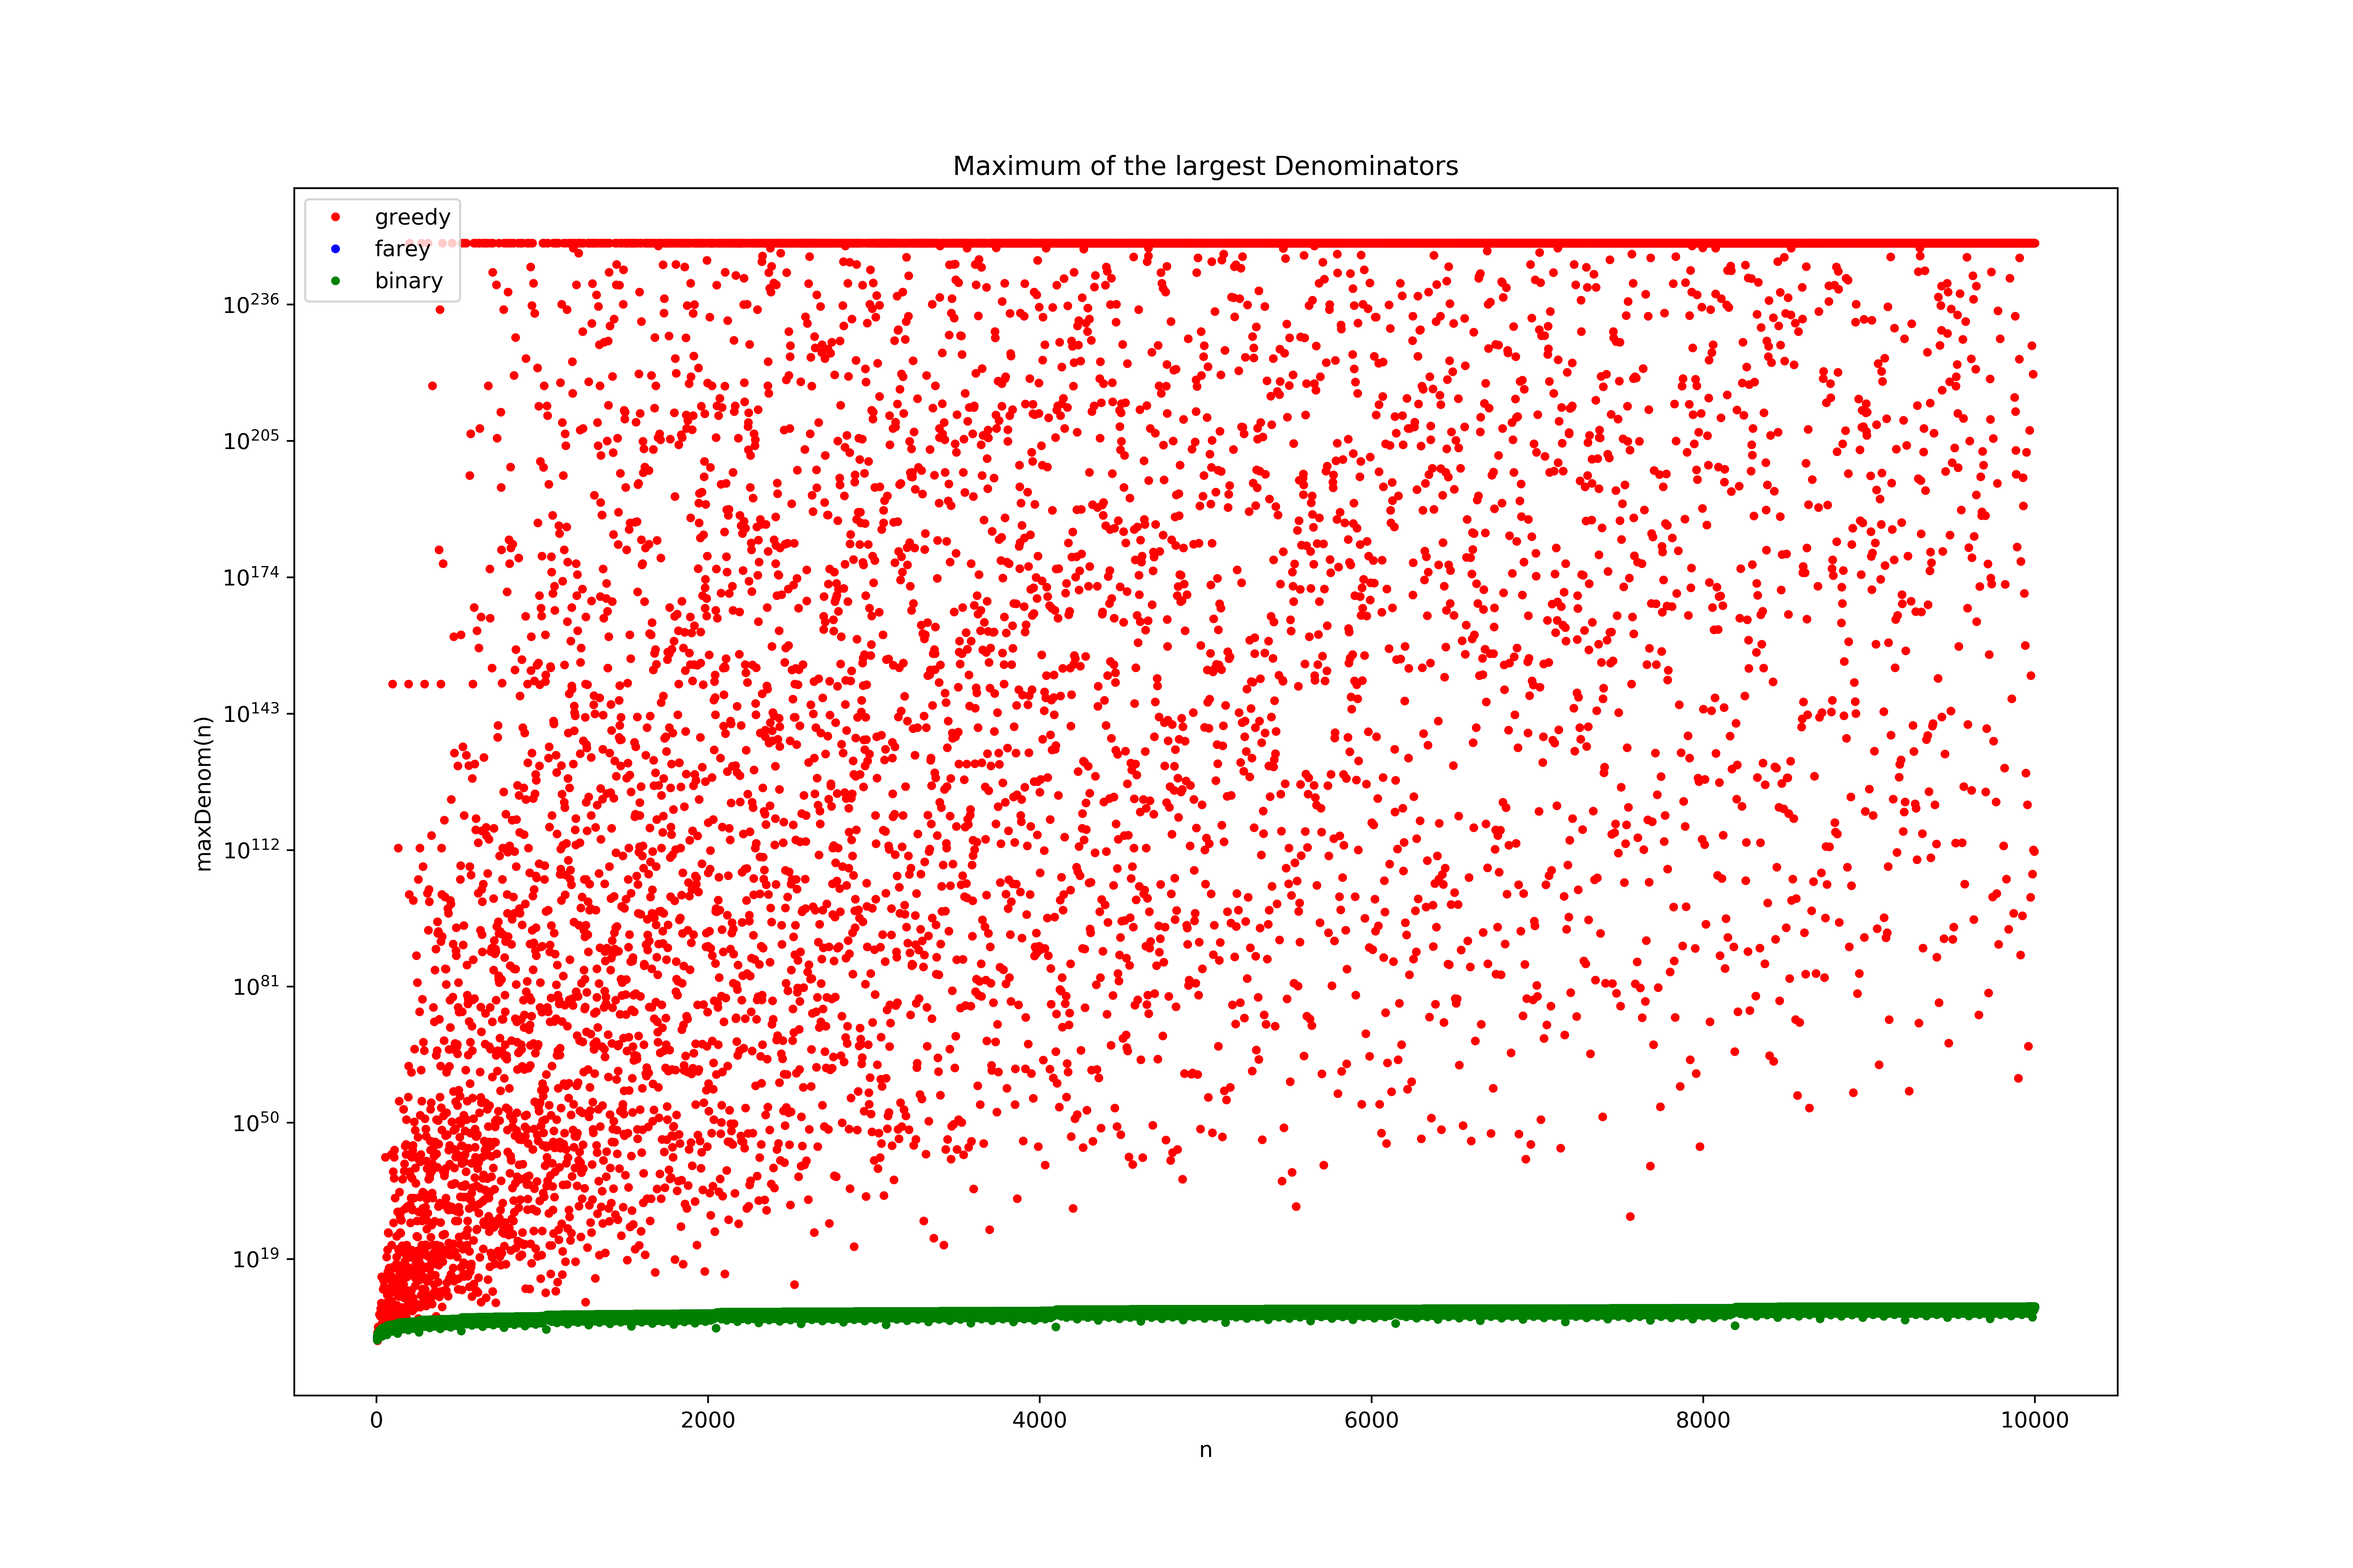
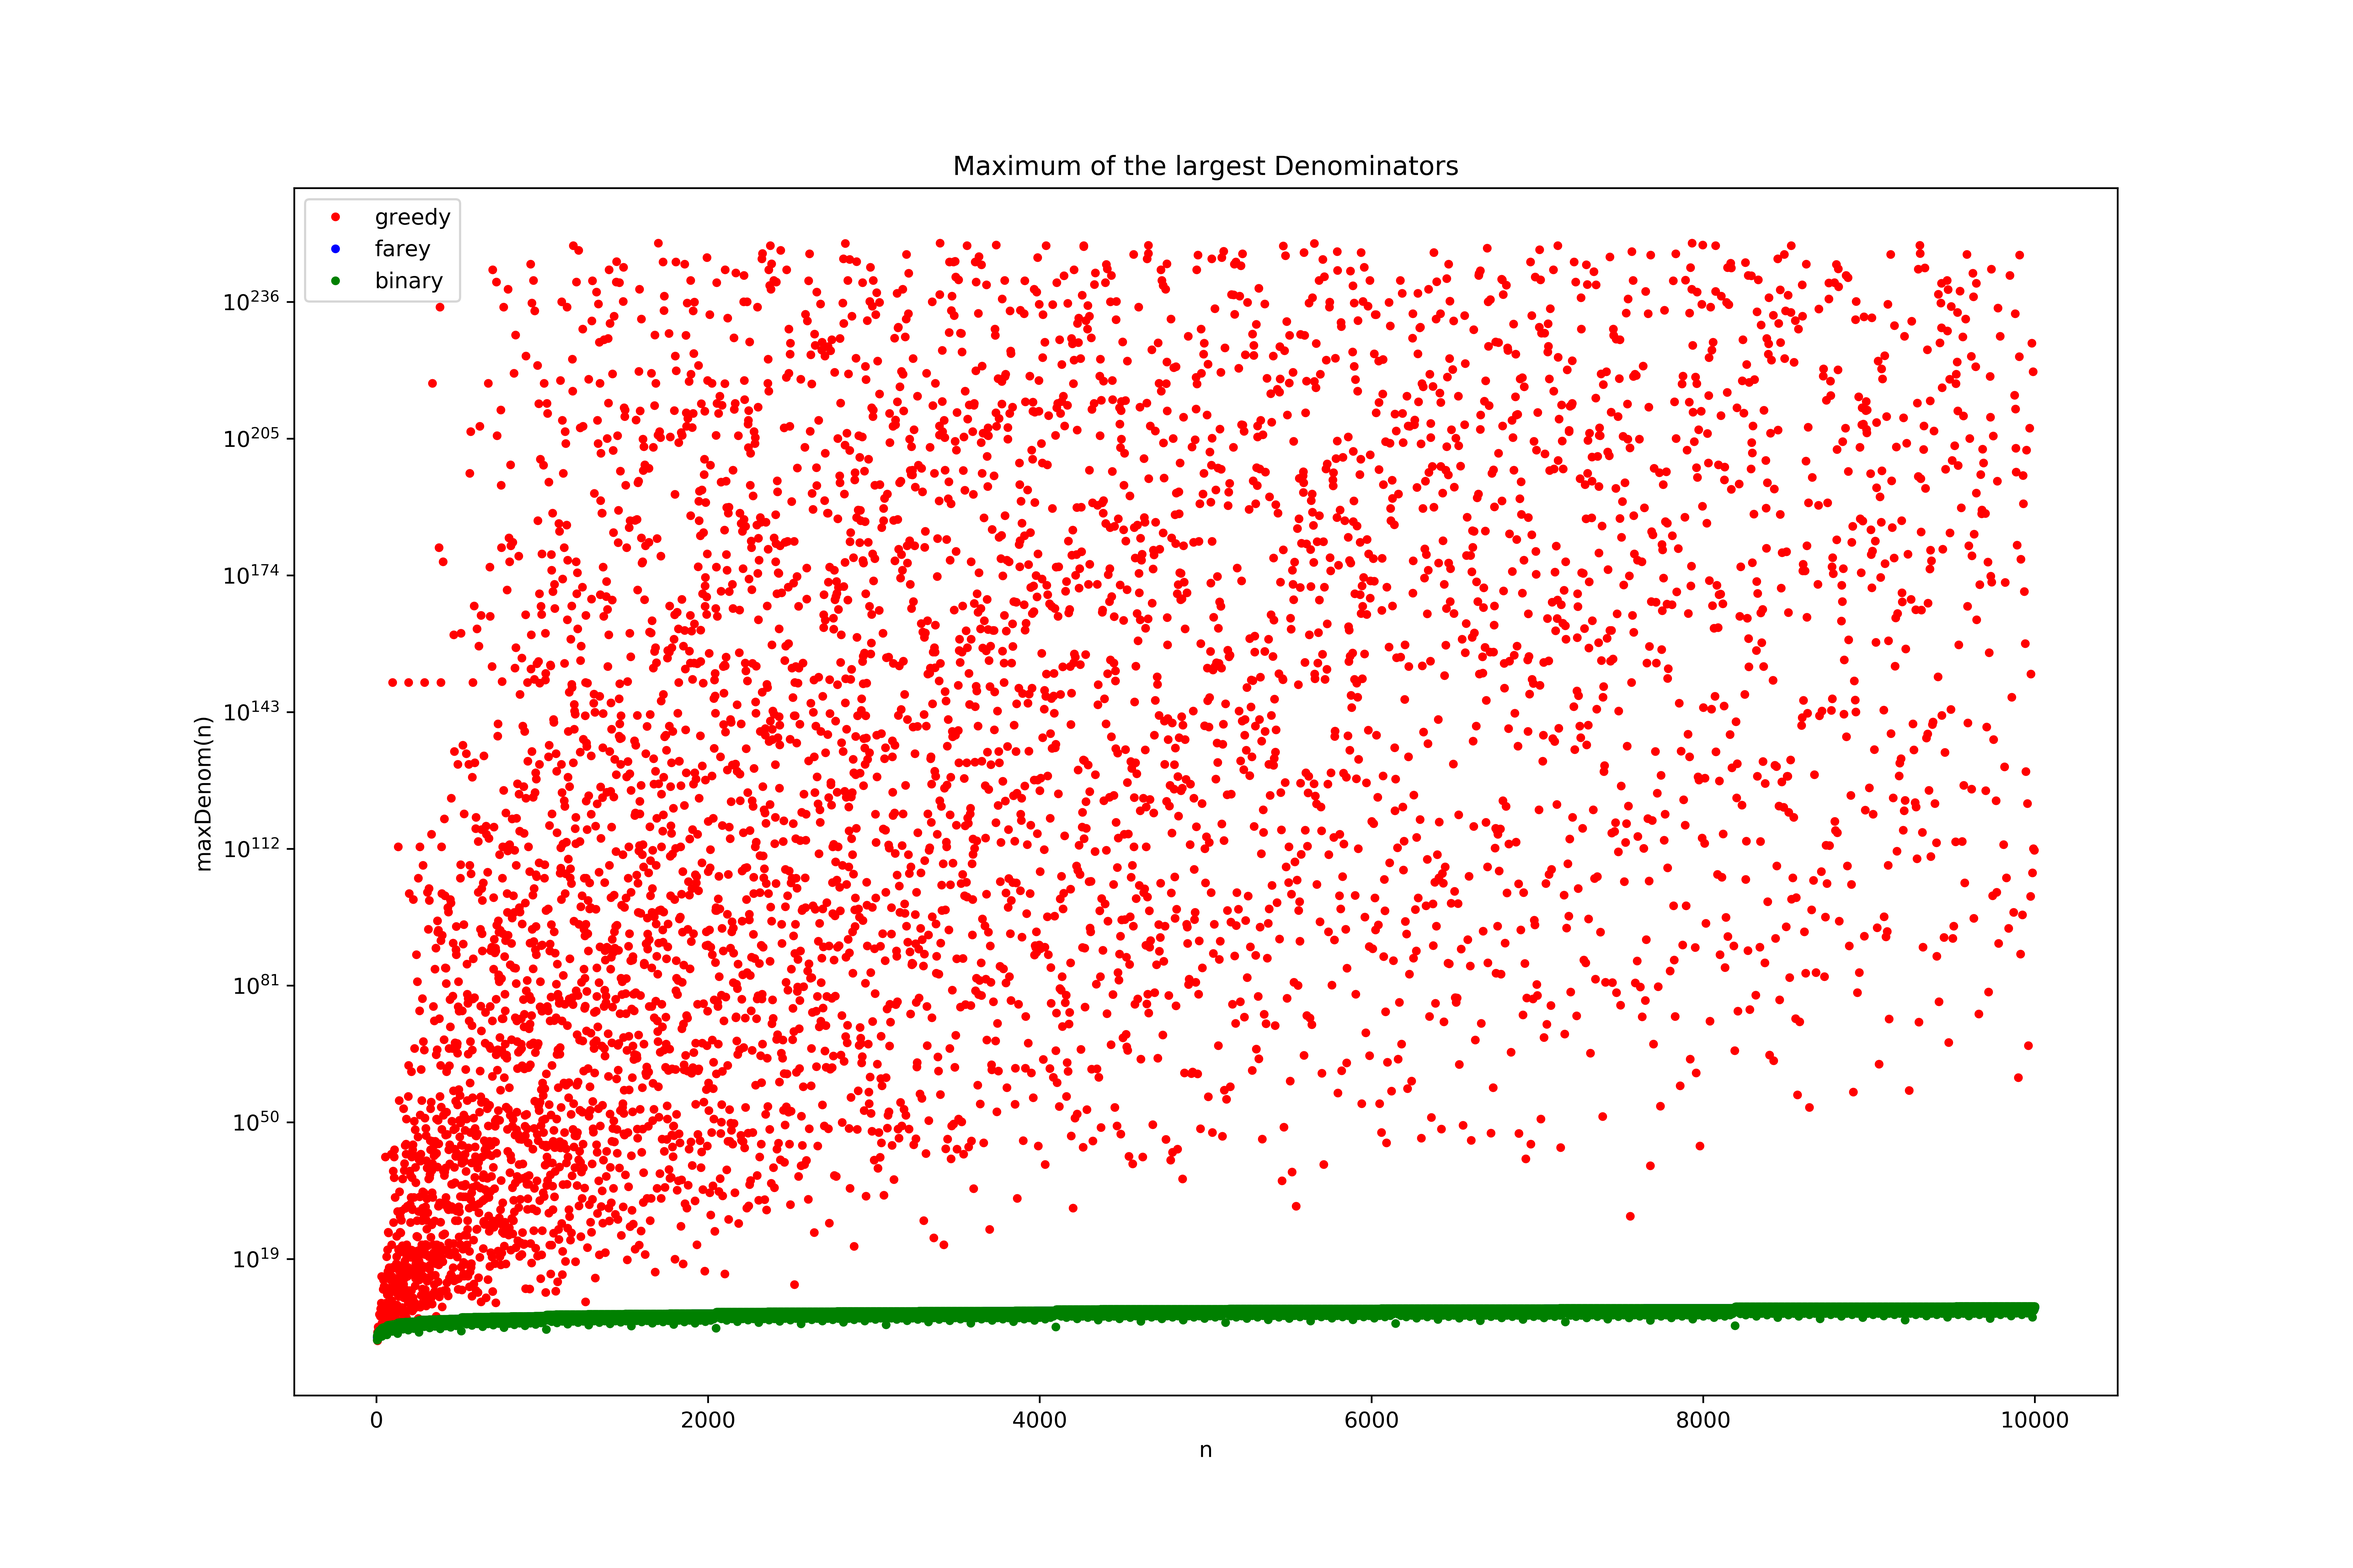
updated plotting methods, added maxDenom plot with Greedy activated

diff --git a/PARI/playground.py b/PARI/playground.py
@@ -19,8 +19,12 @@ def is_power_of_two(n):
 
 
 data = load_data_from_json()
-
-for i in range(0, len(data["binary"]["minTerms"])-1):
-	if data["binary"]["minDenom"][i] % 2 == 1:
-		if data["binary"]["minDenom"][i] == data["farey"]["minDenom"][i]:
-			print(data["n"][i])
+reslist = []
+print(data["n"][0])
+currmax = data["greedy"]["maxTerms"][0]
+for i in range(0, len(data["greedy"]["maxDenom"])-1):
+	if data["greedy"]["maxDenom"][i] < currmax:
+		currmax = data["greedy"]["maxDenom"][i]
+		# print("reset with " + str(currmax))
+		print(data["n"][i])
+print(currmax)

diff --git a/PARI/plotting.py b/PARI/plotting.py
@@ -124,9 +124,10 @@ data = load_data_from_json()
 
 # norm greedy max numbers
 gmaxD = data["greedy"]["maxDenom"]
-for i in range(0,len(gmaxD)-1):
-	if gmaxD[i] > 1e250:
-		gmaxD[i] = 1e+250
+norm = 1e250                        # max 1e+261
+for i in range(0, len(gmaxD)-1):
+	if gmaxD[i] > norm:
+		gmaxD[i] = 'inf'
 
 
 plot_to_file("maxDenom")
